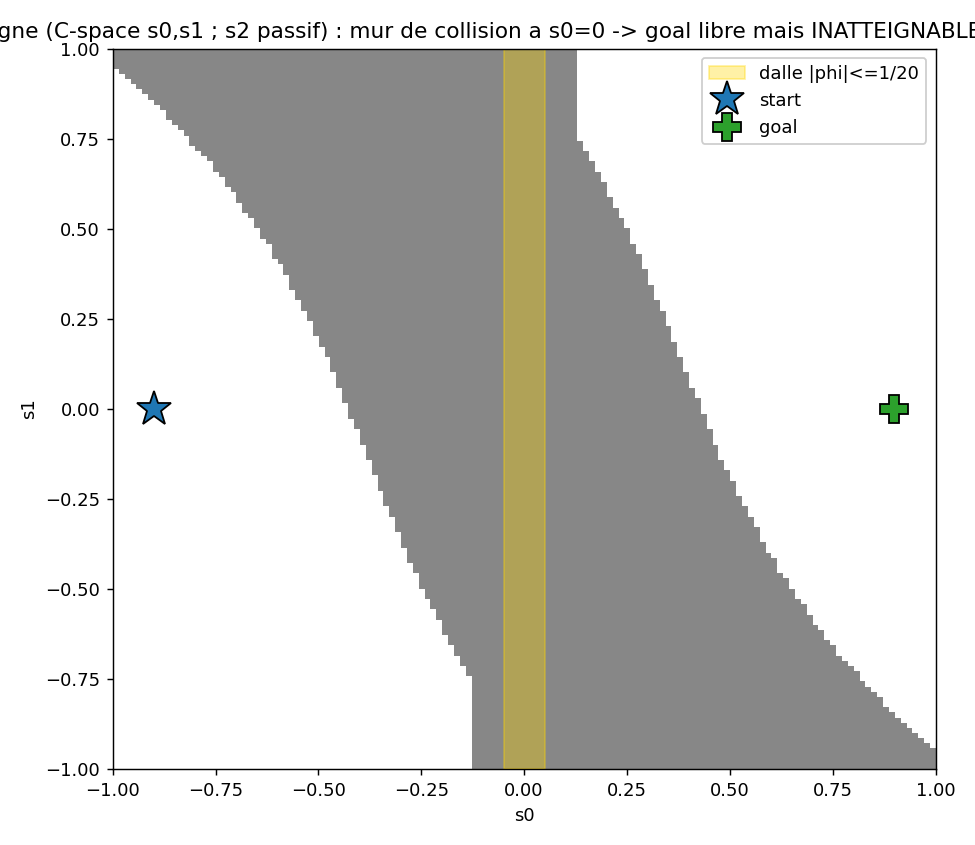
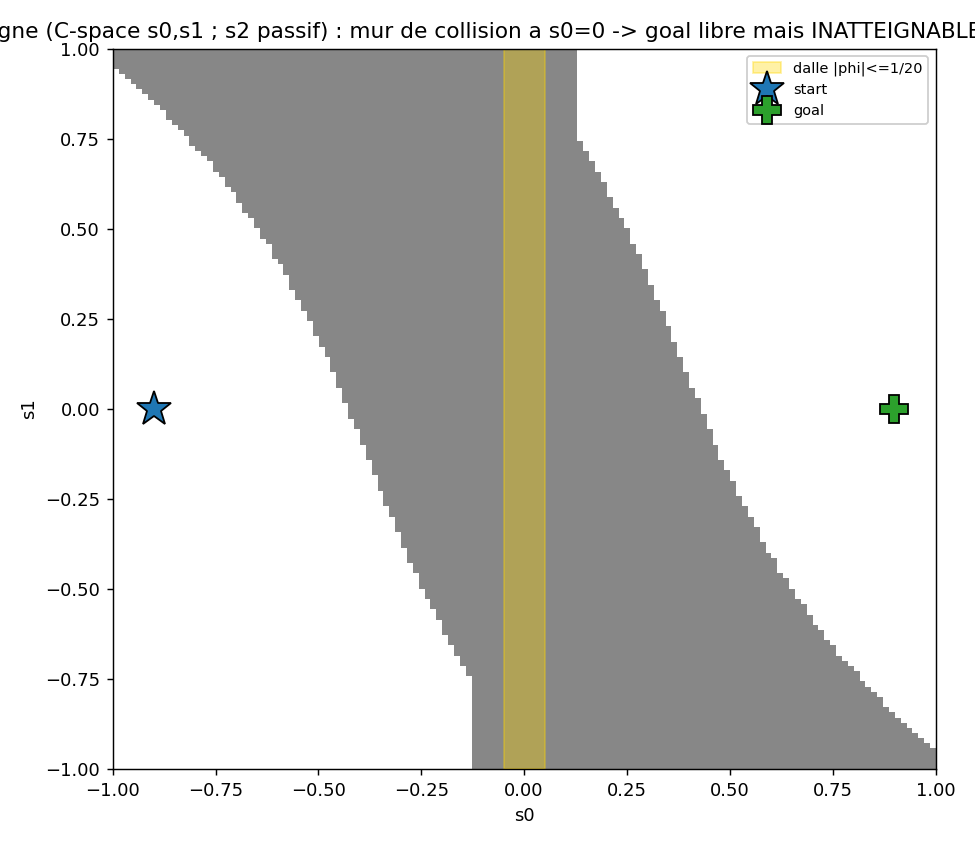
S6: figure C-space spatiale annotee (joints rotoides, pas rotule)
Axes nommes (s0=lacet base, s1=tangage='relever le bras') + 2 trajectoires
candidates (passage direct ET 'relever puis traverser') dessinees -> on voit
qu'aucune ne sort du mur de collision. Repond a 'pourquoi le bras ne releve pas a
la base': la base est une charniere a axe vertical (lacet, ne releve pas) ; relever
= tangage s1, et le mur couvre tout s1. save_cspace_figure gagne axis_labels+paths.

Changed region(s): [[0.7077, 0.0615, 0.9538, 0.1846]]

diff --git a/certified-noplan/src/cnp/viz.py b/certified-noplan/src/cnp/viz.py
@@ -169,7 +169,7 @@ def save_sweep_figure(scene: _cert.Scene, oracle, path, n=9, project=(0, 1),
 
 
 def save_cspace_figure(scene: _cert.Scene, oracle, path, axes=(0, 1), n=140,
-                       fixed=None, title=None):
+                       fixed=None, title=None, axis_labels=None, paths=None):
     """Configuration-space figure (the view that shows 'goal free but UNREACHABLE'):
     a 2-D slice over two s-axes, collision shaded grey, the slab ``{|phi|<=delta}``
     in gold, start (★) and goal (✚) marked. When the slab is a full COLLISION WALL
@@ -211,13 +211,20 @@ def save_cspace_figure(scene: _cert.Scene, oracle, path, axes=(0, 1), n=140,
         ax.axvspan(-delta, delta, color="gold", alpha=0.35, zorder=2,
                    label=f"dalle |phi|<={scene.delta}")
 
+    # candidate motion attempts (each a list of (s_i, s_j) waypoints), drawn dashed so
+    # the eye sees them plunge into the grey collision wall whatever the detour.
+    for lbl, pts in (paths or []):
+        pts = np.asarray(pts, dtype=float)
+        ax.plot(pts[:, 0], pts[:, 1], "--", lw=2, color="#7f0000", zorder=4, label=lbl)
+
     st = [float(v) for v in scene.start_s]
     go = [float(v) for v in scene.goal_s]
     ax.plot(st[i], st[j], "*", color="#1f77b4", ms=20, mec="k", zorder=5, label="start")
     ax.plot(go[i], go[j], "P", color="#2ca02c", ms=16, mec="k", zorder=5, label="goal")
-    ax.set_xlabel(f"s{i}")
-    ax.set_ylabel(f"s{j}")
-    ax.legend(loc="upper right", framealpha=0.95)
+    xl, yl = axis_labels or (f"s{i}", f"s{j}")
+    ax.set_xlabel(xl)
+    ax.set_ylabel(yl)
+    ax.legend(loc="upper right", framealpha=0.95, fontsize=8)
     ax.set_title(title or "C-space slice (grey = collision)")
     fig.tight_layout()
     fig.savefig(path, dpi=130)

diff --git a/certified-noplan/scripts/make_scene_figures.py b/certified-noplan/scripts/make_scene_figures.py
@@ -57,10 +57,17 @@ def spatial_figure():
     os.makedirs(OUT, exist_ok=True)
     oracle = scenes.collision_oracle(scene, n_samples=30)
     p1 = os.path.join(OUT, "scene_S2b_spatial_cspace.png")
+    # The robot is a REVOLUTE chain (hinges), not a ball joint: s0 = base yaw (turns
+    # left/right, in-plane), s1 = pitch ("lifts the arm"). The wall covers ALL s1, so
+    # neither the direct crossing nor a "lift then cross" detour escapes the collision.
+    paths = [("passage direct (lacet seul)", [(-0.6, 0), (0.6, 0)]),
+             ("tentative: relever (tangage) puis traverser",
+              [(-0.6, 0), (-0.6, 0.65), (0.6, 0.65), (0.6, 0)])]
     viz.save_cspace_figure(
-        scene, oracle, p1, axes=(0, 1), n=140, fixed={2: 0.0},
-        title="S2b spatial 3R (C-space s0,s1 ; s2 passif) : mur de collision a "
-              "s0=0 -> goal libre mais INATTEIGNABLE depuis start")
+        scene, oracle, p1, axes=(0, 1), n=160, fixed={2: 0.0}, paths=paths,
+        axis_labels=("s0 = lacet base (tourne G/D)", "s1 = tangage (releve le bras)"),
+        title="S2b 3R (joints rotoides, PAS rotule) : le mur couvre tout le tangage "
+              "s1\n-> ni le passage direct ni la tentative de relever ne sortent du libre")
     print("written", os.path.normpath(p1))
 
     # Sweep filmstrip: the direct start->goal motion sweeps the arm through the wall.
